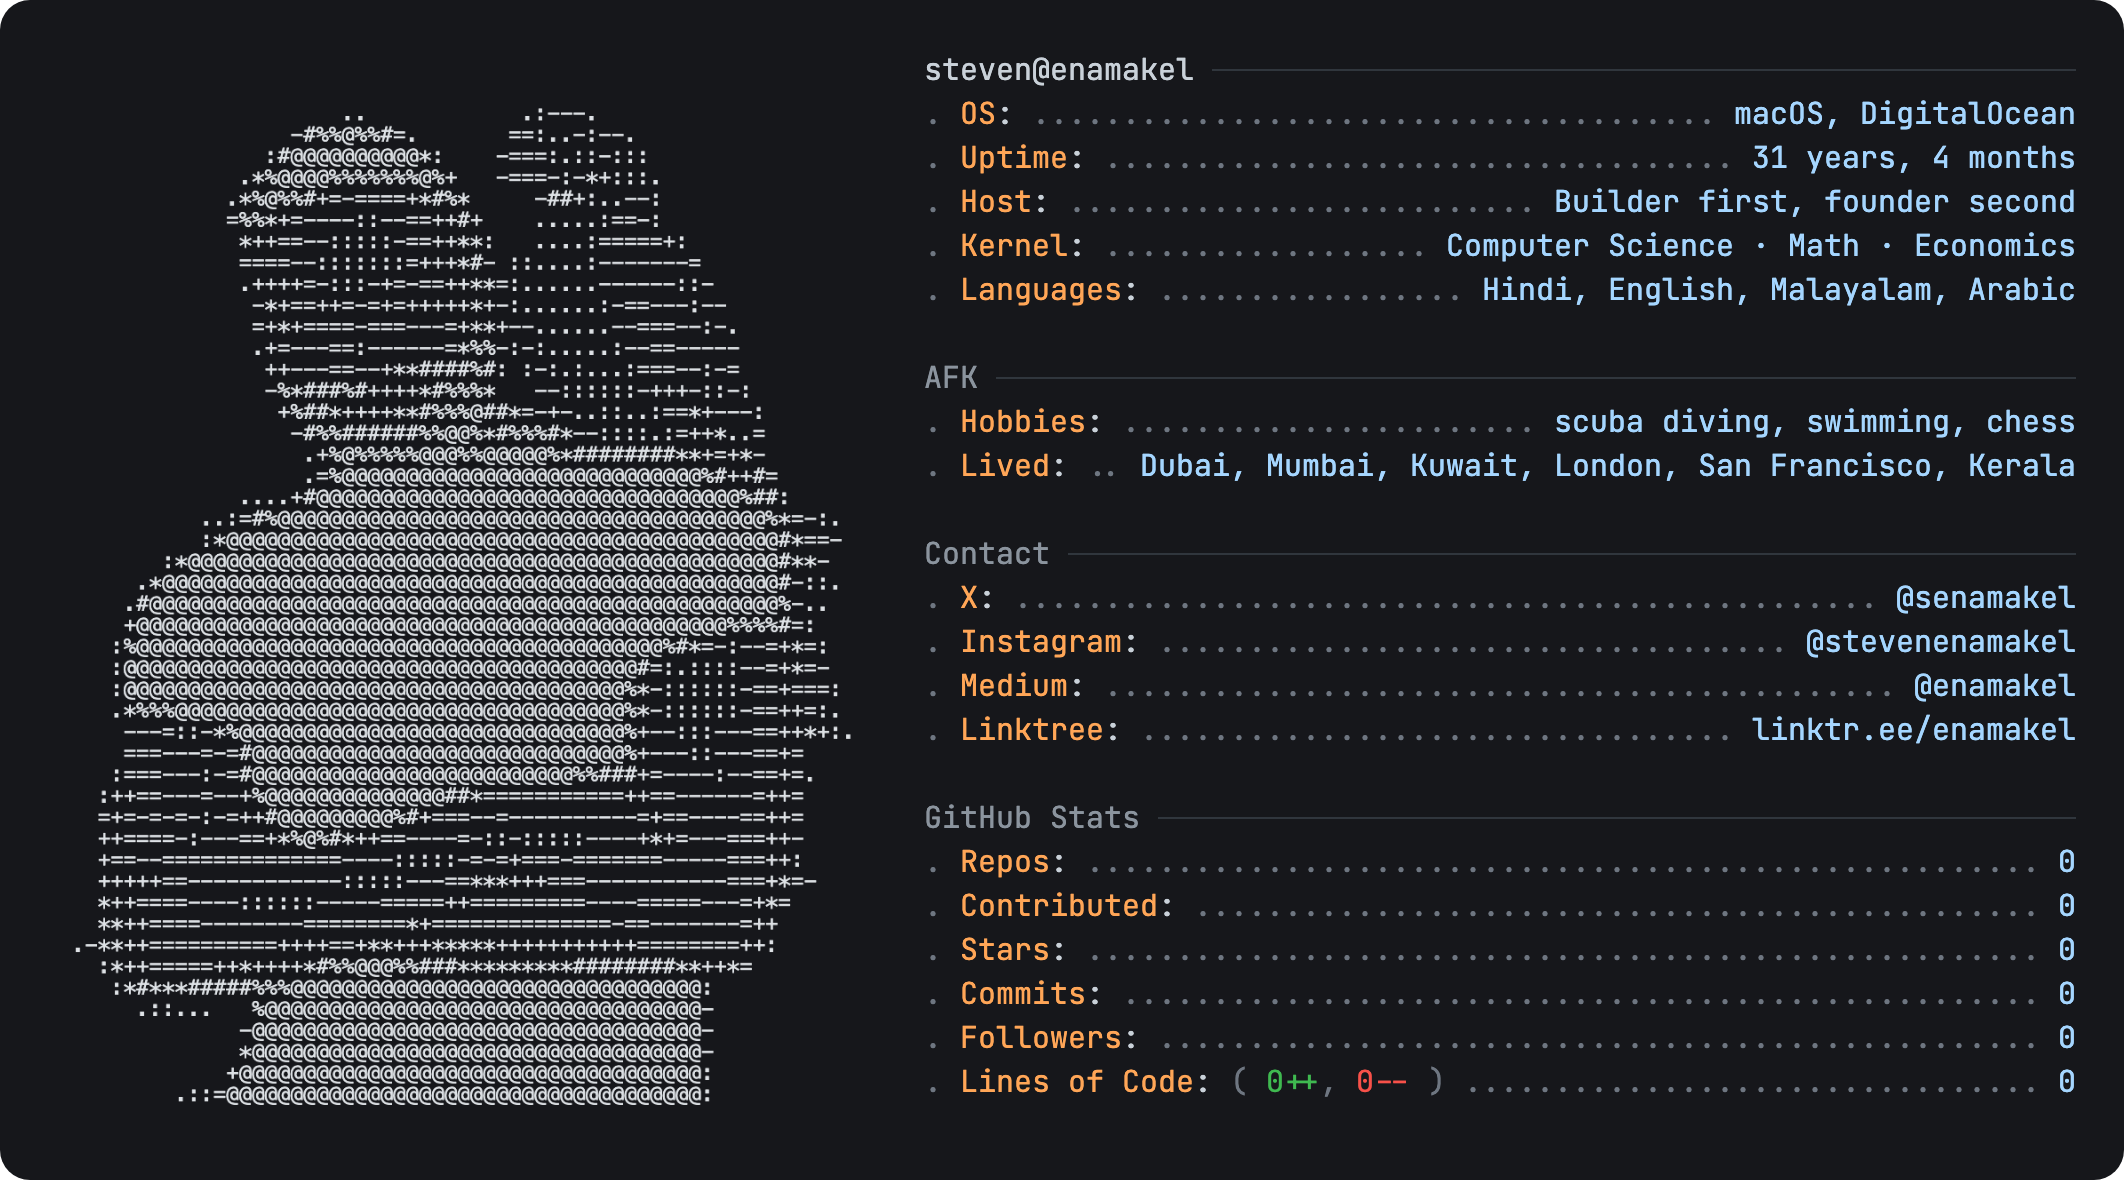
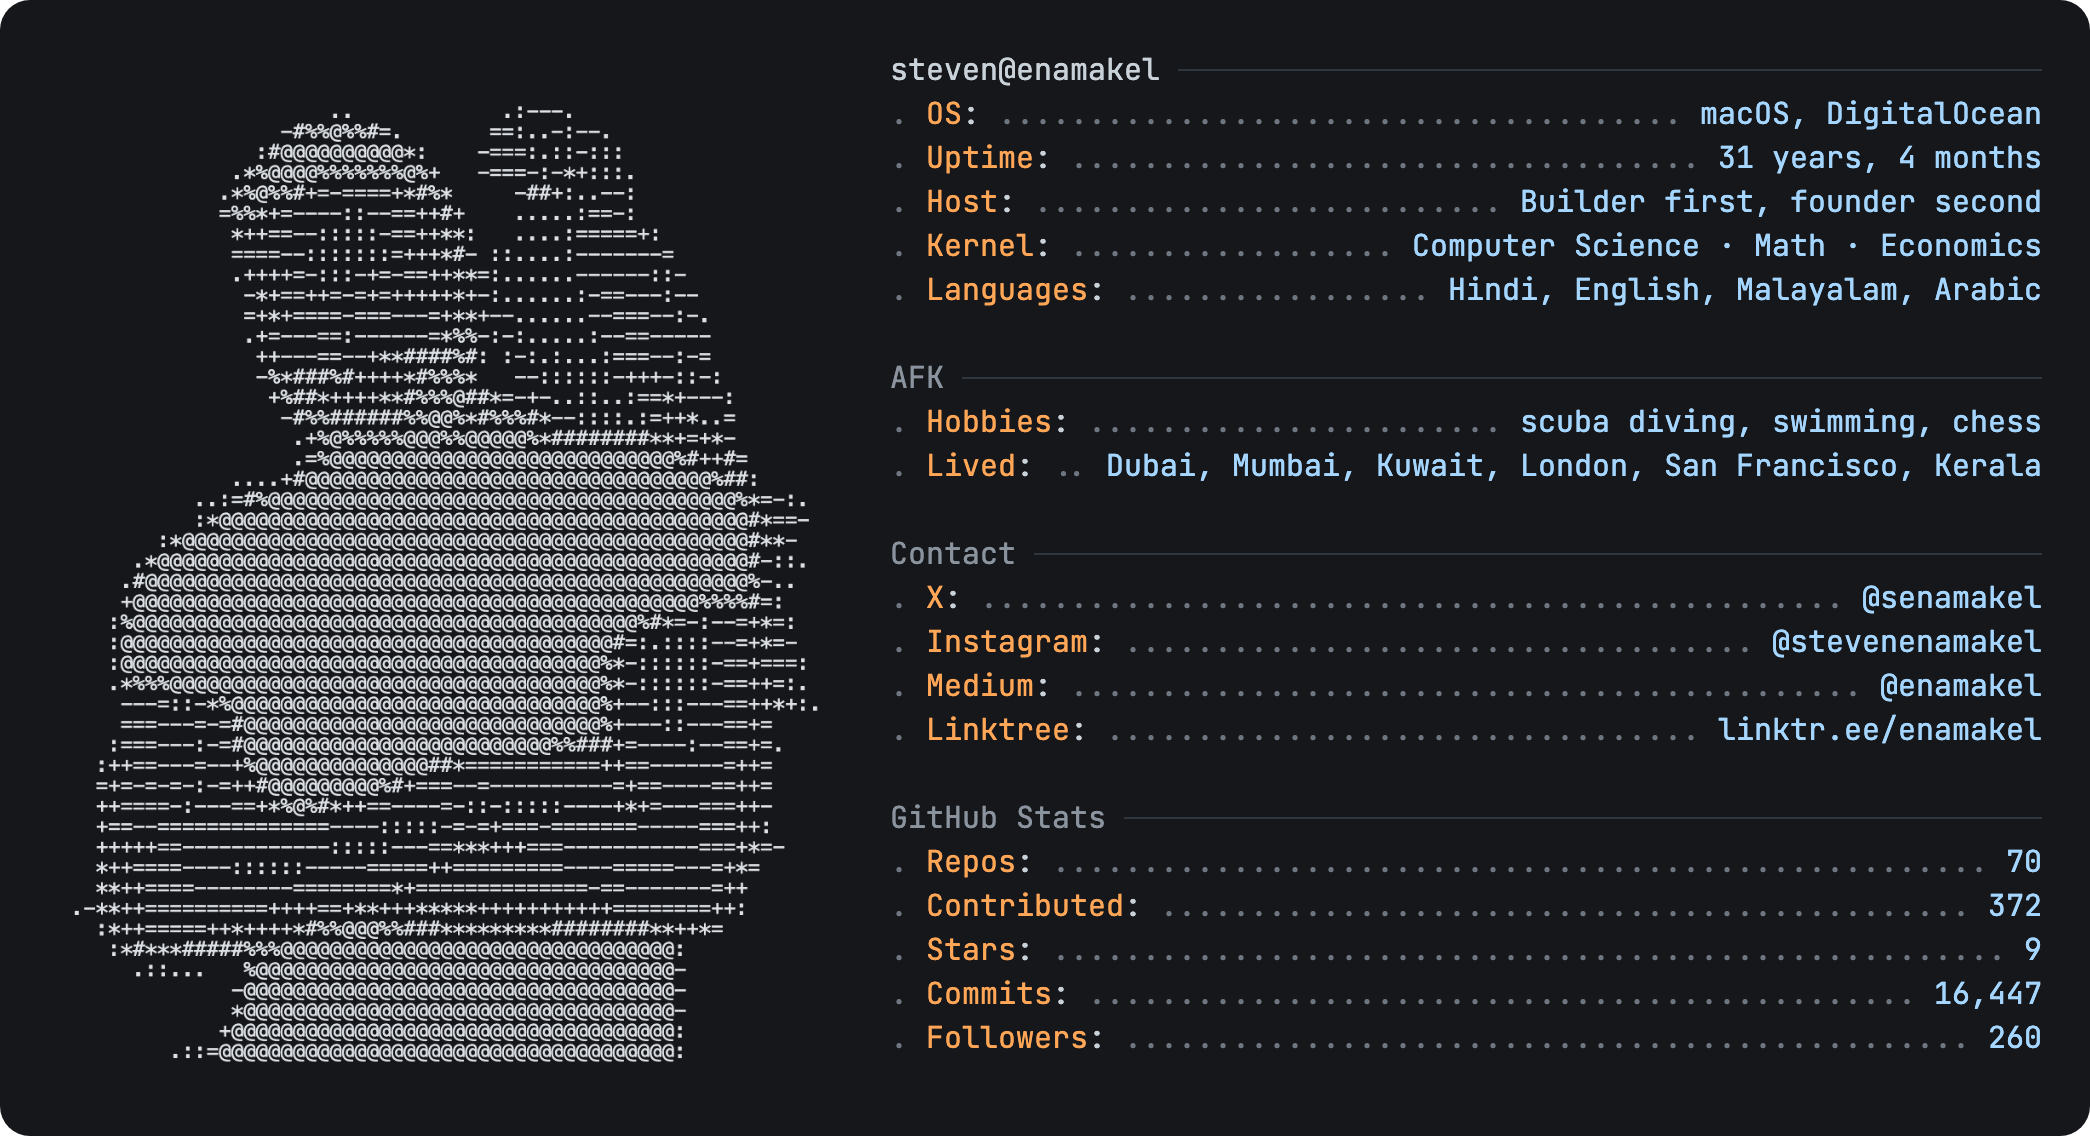
Populate real stats; replace slow LOC walk with fast commit counter
Walking every commit of 370+ repos for lines-of-code was impractically slow
(15+ min, rate-limit prone) and unfit for a daily job. Dropped the Lines of
Code row and its per-commit cache machinery; Commits now come from
contributionsCollection.totalCommitContributions summed year-by-year (fast,
matches the contribution graph). Full run is ~11s / 14 API calls.

Stats: Repos 70, Contributed 372, Stars 9, Commits 16,447, Followers 260.

Claude-Session: https://claude.ai/code/session_01QaVUTcH4xGcrzRcHuhK35A

diff --git a/today.py b/today.py
@@ -14,7 +14,6 @@ Required environment variables:
   USER_NAME     GitHub login to generate stats for (e.g. 'senamakel').
 """
 import datetime
-import hashlib
 import os
 import time
 
@@ -85,21 +84,6 @@ def follower_getter(username):
     return int(request.json()["data"]["user"]["followers"]["totalCount"])
 
 
-def graph_commits(start_date, end_date):
-    query_count("graph_commits")
-    query = """
-    query($start_date: DateTime!, $end_date: DateTime!, $login: String!) {
-        user(login: $login) {
-            contributionsCollection(from: $start_date, to: $end_date) {
-                contributionCalendar { totalContributions }
-            }
-        }
-    }"""
-    variables = {"start_date": start_date, "end_date": end_date, "login": USER_NAME}
-    request = simple_request(graph_commits.__name__, query, variables)
-    return int(request.json()["data"]["user"]["contributionsCollection"]["contributionCalendar"]["totalContributions"])
-
-
 def graph_repos_stars(count_type, owner_affiliation, cursor=None):
     """Returns total repository or star count."""
     query_count("graph_repos_stars")
@@ -125,137 +109,34 @@ def stars_counter(data):
     return sum(node["node"]["stargazers"]["totalCount"] for node in data)
 
 
-def recursive_loc(owner, repo_name, data, cache_comment, addition_total=0, deletion_total=0, my_commits=0, cursor=None):
-    """Pages through a repository's commit history to tally my added/deleted LOC."""
-    query_count("recursive_loc")
-    query = """
-    query ($repo_name: String!, $owner: String!, $cursor: String) {
-        repository(name: $repo_name, owner: $owner) {
-            defaultBranchRef { target { ... on Commit {
-                history(first: 100, after: $cursor) {
-                    totalCount
-                    edges { node { ... on Commit {
-                        committedDate } author { user { id } } deletions additions } }
-                    pageInfo { endCursor hasNextPage }
+def commit_getter(created_at):
+    """Total commit contributions since the account was created.
+
+    Sums contributionsCollection.totalCommitContributions year-by-year (the API
+    caps each query at one year). Fast — a handful of queries — and it matches the
+    commit count GitHub shows on the contribution graph.
+    """
+    start = datetime.datetime.fromisoformat(created_at.replace("Z", "+00:00"))
+    now = datetime.datetime.now(datetime.timezone.utc)
+    total = 0
+    window = start
+    while window < now:
+        nxt = min(window + relativedelta.relativedelta(years=1), now)
+        query_count("graph_commits")
+        query = """
+        query($from: DateTime!, $to: DateTime!, $login: String!) {
+            user(login: $login) {
+                contributionsCollection(from: $from, to: $to) {
+                    totalCommitContributions
+                    restrictedContributionsCount
                 }
-            } } }
-        }
-    }"""
-    variables = {"repo_name": repo_name, "owner": owner, "cursor": cursor}
-    request = requests.post("https://api.github.com/graphql",
-                            json={"query": query, "variables": variables}, headers=HEADERS)
-    if request.status_code == 200:
-        if request.json()["data"]["repository"]["defaultBranchRef"] is not None:
-            return loc_counter_one_repo(owner, repo_name, data, cache_comment,
-                                        request.json()["data"]["repository"]["defaultBranchRef"]["target"]["history"],
-                                        addition_total, deletion_total, my_commits)
-        return 0
-    force_close_file(data, cache_comment)
-    if request.status_code == 403:
-        raise Exception("Too many requests in a short amount of time! Hit the anti-abuse limit.")
-    raise Exception("recursive_loc() failed", request.status_code, request.text, QUERY_COUNT)
-
-
-def loc_counter_one_repo(owner, repo_name, data, cache_comment, history, addition_total, deletion_total, my_commits):
-    for node in history["edges"]:
-        if node["node"]["author"]["user"] == OWNER_ID:
-            my_commits += 1
-            addition_total += node["node"]["additions"]
-            deletion_total += node["node"]["deletions"]
-    if history["edges"] == [] or not history["pageInfo"]["hasNextPage"]:
-        return addition_total, deletion_total, my_commits
-    return recursive_loc(owner, repo_name, data, cache_comment, addition_total, deletion_total,
-                         my_commits, history["pageInfo"]["endCursor"])
-
-
-def loc_query(owner_affiliation, comment_size=0, force_cache=False, cursor=None, edges=None):
-    """Queries every accessible repo, then hands off to the cache builder."""
-    query_count("loc_query")
-    edges = edges if edges is not None else []
-    query = """
-    query ($owner_affiliation: [RepositoryAffiliation], $login: String!, $cursor: String) {
-        user(login: $login) {
-            repositories(first: 60, after: $cursor, ownerAffiliations: $owner_affiliation) {
-                edges { node { ... on Repository {
-                    nameWithOwner
-                    defaultBranchRef { target { ... on Commit { history { totalCount } } } }
-                } } }
-                pageInfo { endCursor hasNextPage }
             }
-        }
-    }"""
-    variables = {"owner_affiliation": owner_affiliation, "login": USER_NAME, "cursor": cursor}
-    request = simple_request(loc_query.__name__, query, variables)
-    page = request.json()["data"]["user"]["repositories"]
-    if page["pageInfo"]["hasNextPage"]:
-        return loc_query(owner_affiliation, comment_size, force_cache, page["pageInfo"]["endCursor"], edges + page["edges"])
-    return cache_builder(edges + page["edges"], comment_size, force_cache)
-
-
-def cache_builder(edges, comment_size, force_cache, loc_add=0, loc_del=0):
-    """Uses a per-user cache file so only repos with new commits are re-scanned."""
-    os.makedirs("cache", exist_ok=True)
-    cached = True
-    filename = "cache/" + hashlib.sha256(USER_NAME.encode("utf-8")).hexdigest() + ".txt"
-    try:
-        with open(filename, "r") as f:
-            data = f.readlines()
-    except FileNotFoundError:
-        data = ["This line is a comment block. Write whatever you want here.\n"] * comment_size
-        with open(filename, "w") as f:
-            f.writelines(data)
-
-    if len(data) - comment_size != len(edges) or force_cache:
-        cached = False
-        flush_cache(edges, filename, comment_size)
-        with open(filename, "r") as f:
-            data = f.readlines()
-
-    cache_comment = data[:comment_size]
-    data = data[comment_size:]
-    for index in range(len(edges)):
-        repo_hash, commit_count, *__ = data[index].split()
-        if repo_hash == hashlib.sha256(edges[index]["node"]["nameWithOwner"].encode("utf-8")).hexdigest():
-            try:
-                if int(commit_count) != edges[index]["node"]["defaultBranchRef"]["target"]["history"]["totalCount"]:
-                    owner, repo_name = edges[index]["node"]["nameWithOwner"].split("/")
-                    loc = recursive_loc(owner, repo_name, data, cache_comment)
-                    data[index] = repo_hash + " " + str(edges[index]["node"]["defaultBranchRef"]["target"]["history"]["totalCount"]) + " " + str(loc[2]) + " " + str(loc[0]) + " " + str(loc[1]) + "\n"
-            except TypeError:  # empty repo
-                data[index] = repo_hash + " 0 0 0 0\n"
-    with open(filename, "w") as f:
-        f.writelines(cache_comment)
-        f.writelines(data)
-    for line in data:
-        loc = line.split()
-        loc_add += int(loc[3])
-        loc_del += int(loc[4])
-    return [loc_add, loc_del, loc_add - loc_del, cached]
-
-
-def flush_cache(edges, filename, comment_size):
-    with open(filename, "r") as f:
-        data = f.readlines()[:comment_size] if comment_size else []
-    with open(filename, "w") as f:
-        f.writelines(data)
-        for node in edges:
-            f.write(hashlib.sha256(node["node"]["nameWithOwner"].encode("utf-8")).hexdigest() + " 0 0 0 0\n")
-
-
-def force_close_file(data, cache_comment):
-    filename = "cache/" + hashlib.sha256(USER_NAME.encode("utf-8")).hexdigest() + ".txt"
-    with open(filename, "w") as f:
-        f.writelines(cache_comment)
-        f.writelines(data)
-    print("Partial cache data saved to", filename)
-
-
-def commit_counter(comment_size):
-    """Sums my commits across all repos, using the cache built by cache_builder."""
-    filename = "cache/" + hashlib.sha256(USER_NAME.encode("utf-8")).hexdigest() + ".txt"
-    with open(filename, "r") as f:
-        data = f.readlines()[comment_size:]
-    return sum(int(line.split()[2]) for line in data)
+        }"""
+        variables = {"from": window.isoformat(), "to": nxt.isoformat(), "login": USER_NAME}
+        cc = simple_request(commit_getter.__name__, query, variables).json()["data"]["user"]["contributionsCollection"]
+        total += cc["totalCommitContributions"] + cc["restrictedContributionsCount"]
+        window = nxt
+    return total
 
 
 # Values right-align to character column RC (must match build_header.py).
@@ -271,7 +152,7 @@ def _value_len(key):
     return RC - len(key) - 5
 
 
-def svg_overwrite(filename, age_data, commit_data, star_data, repo_data, contrib_data, follower_data, loc_data):
+def svg_overwrite(filename, age_data, commit_data, star_data, repo_data, contrib_data, follower_data):
     """Parses the SVG and rewrites the stat elements so every value hits column RC."""
     tree = etree.parse(filename)
     root = tree.getroot()
@@ -281,18 +162,6 @@ def svg_overwrite(filename, age_data, commit_data, star_data, repo_data, contrib
     justify_format(root, "star_data", star_data, _value_len("Stars"))
     justify_format(root, "commit_data", commit_data, _value_len("Commits"))
     justify_format(root, "follower_data", follower_data, _value_len("Followers"))
-    # Lines of Code: total right-aligns to RC; colored diff sits inline before the leader.
-    loc_add, loc_del, loc_total = str(loc_data[0]), str(loc_data[1]), str(loc_data[2])
-    find_and_replace(root, "loc_add", loc_add)
-    find_and_replace(root, "loc_del", loc_del)
-    find_and_replace(root, "loc_data", loc_total)
-    # fixed chars on the line: '. Lines of Code:' (16) + ' ( ' + '++' + ', ' + '--' + ' )' = 27
-    dots_len = RC - 27 - len(loc_add) - len(loc_del) - len(loc_total)
-    if dots_len <= 2:
-        loc_dots = {0: "", 1: " ", 2: ". "}.get(max(0, dots_len), " ")
-    else:
-        loc_dots = " " + ("." * (dots_len - 2)) + " "
-    find_and_replace(root, "loc_data_dots", loc_dots)
     tree.write(filename, encoding="utf-8", xml_declaration=True)
 
 
@@ -338,10 +207,7 @@ if __name__ == "__main__":
     age_data, age_time = perf_counter(daily_readme, BIRTHDAY)
     formatter("age calculation", age_time)
 
-    total_loc, loc_time = perf_counter(loc_query, ["OWNER", "COLLABORATOR", "ORGANIZATION_MEMBER"], 7)
-    formatter("LOC (cached)" if total_loc[-1] else "LOC (no cache)", loc_time)
-
-    commit_data, commit_time = perf_counter(commit_counter, 7)
+    commit_data, commit_time = perf_counter(commit_getter, acc_date)
     formatter("commit counter", commit_time)
 
     star_data, star_time = perf_counter(graph_repos_stars, "stars", ["OWNER"])
@@ -356,7 +222,6 @@ if __name__ == "__main__":
     follower_data, follower_time = perf_counter(follower_getter, USER_NAME)
     formatter("follower counter", follower_time)
 
-    formatted_loc = ["{:,}".format(total_loc[0]), "{:,}".format(total_loc[1]), "{:,}".format(total_loc[2])]
-    svg_overwrite(SVG_FILE, age_data, commit_data, star_data, repo_data, contrib_data, follower_data, formatted_loc)
+    svg_overwrite(SVG_FILE, age_data, commit_data, star_data, repo_data, contrib_data, follower_data)
 
     print("Total GitHub GraphQL API calls:", "{:>3}".format(sum(QUERY_COUNT.values())))

diff --git a/build_header.py b/build_header.py
@@ -32,7 +32,7 @@ BG = "#16171b"
 FONT_SIZE = 15
 CHAR_W = FONT_SIZE * 0.6                 # JetBrains Mono advance = 0.6em -> 9.0px
 
-H = 590
+H = 568
 V_MARGIN = 30
 PH = H - 2 * V_MARGIN
 PW = round(PH * IMG_W / IMG_H)
@@ -110,16 +110,6 @@ rows.append(kv(y, "Contributed", "00", "contrib_data_dots", "contrib_data")); y 
 rows.append(kv(y, "Stars", "00", "star_data_dots", "star_data")); y += STEP
 rows.append(kv(y, "Commits", "0,000", "commit_data_dots", "commit_data")); y += STEP
 rows.append(kv(y, "Followers", "00", "follower_data_dots", "follower_data")); y += STEP
-rows.append(
-    f'<tspan x="{X}" y="{y}"><tspan class="cc">. </tspan>'
-    f'<tspan class="key">Lines of Code</tspan>:'
-    f'<tspan class="cc"> ( </tspan><tspan class="addColor" id="loc_add">000,000</tspan>'
-    f'<tspan class="addColor">++</tspan><tspan class="cc">, </tspan>'
-    f'<tspan class="delColor" id="loc_del">00,000</tspan><tspan class="delColor">--</tspan>'
-    f'<tspan class="cc"> )</tspan>'
-    f'<tspan class="cc" id="loc_data_dots"> ... </tspan><tspan class="value" id="loc_data">000,000</tspan></tspan>'
-)
-y += STEP
 
 text_block = "\n".join(rows)
 line_block = "\n".join(lines)
